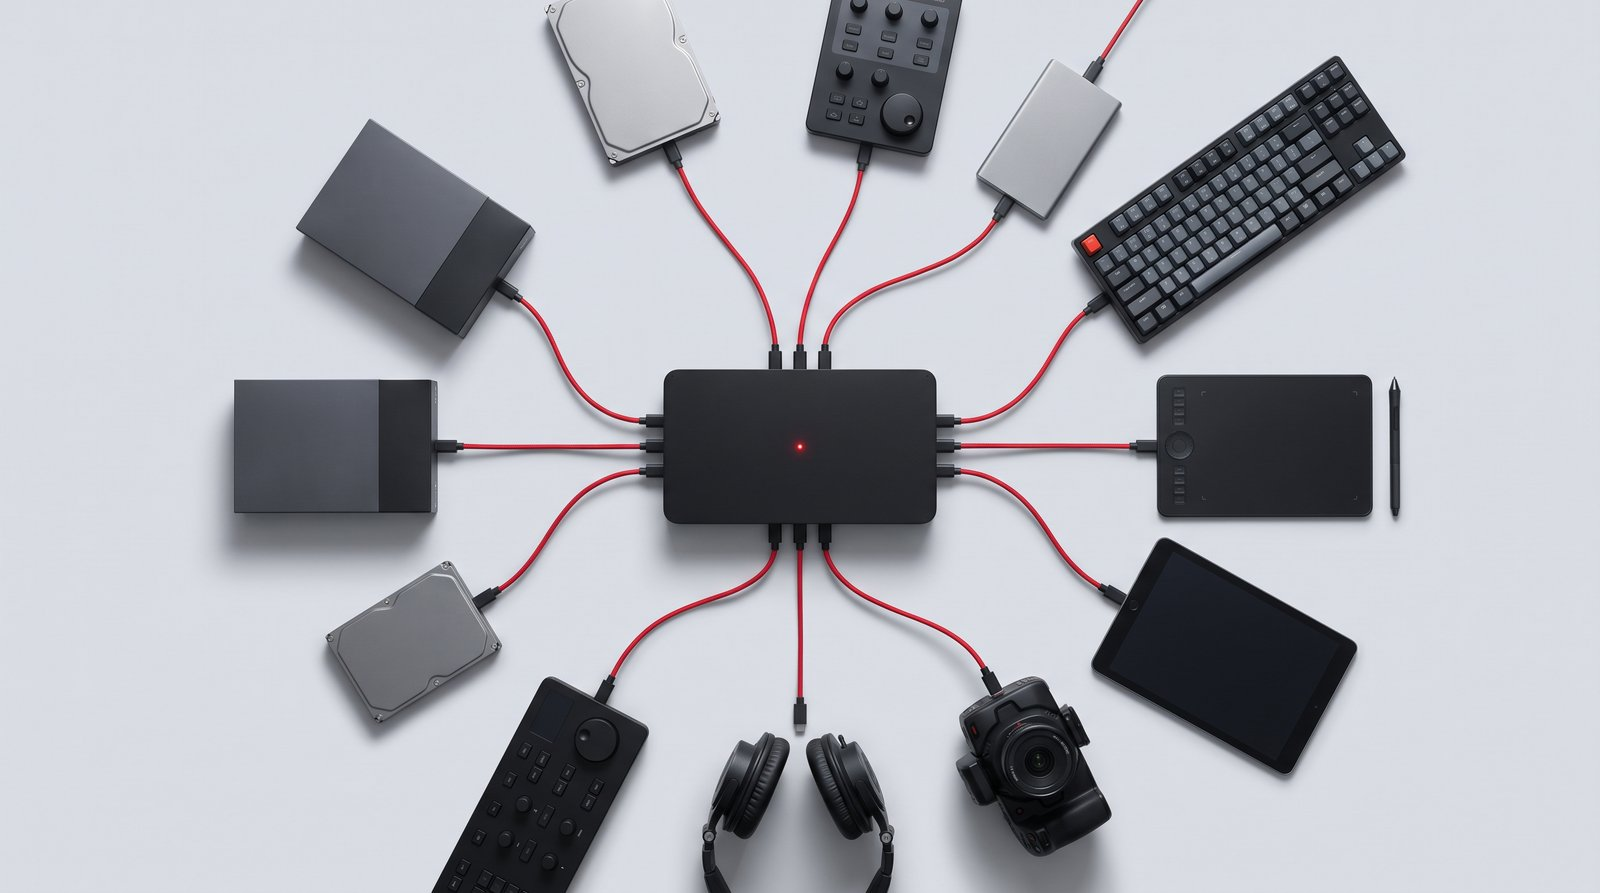
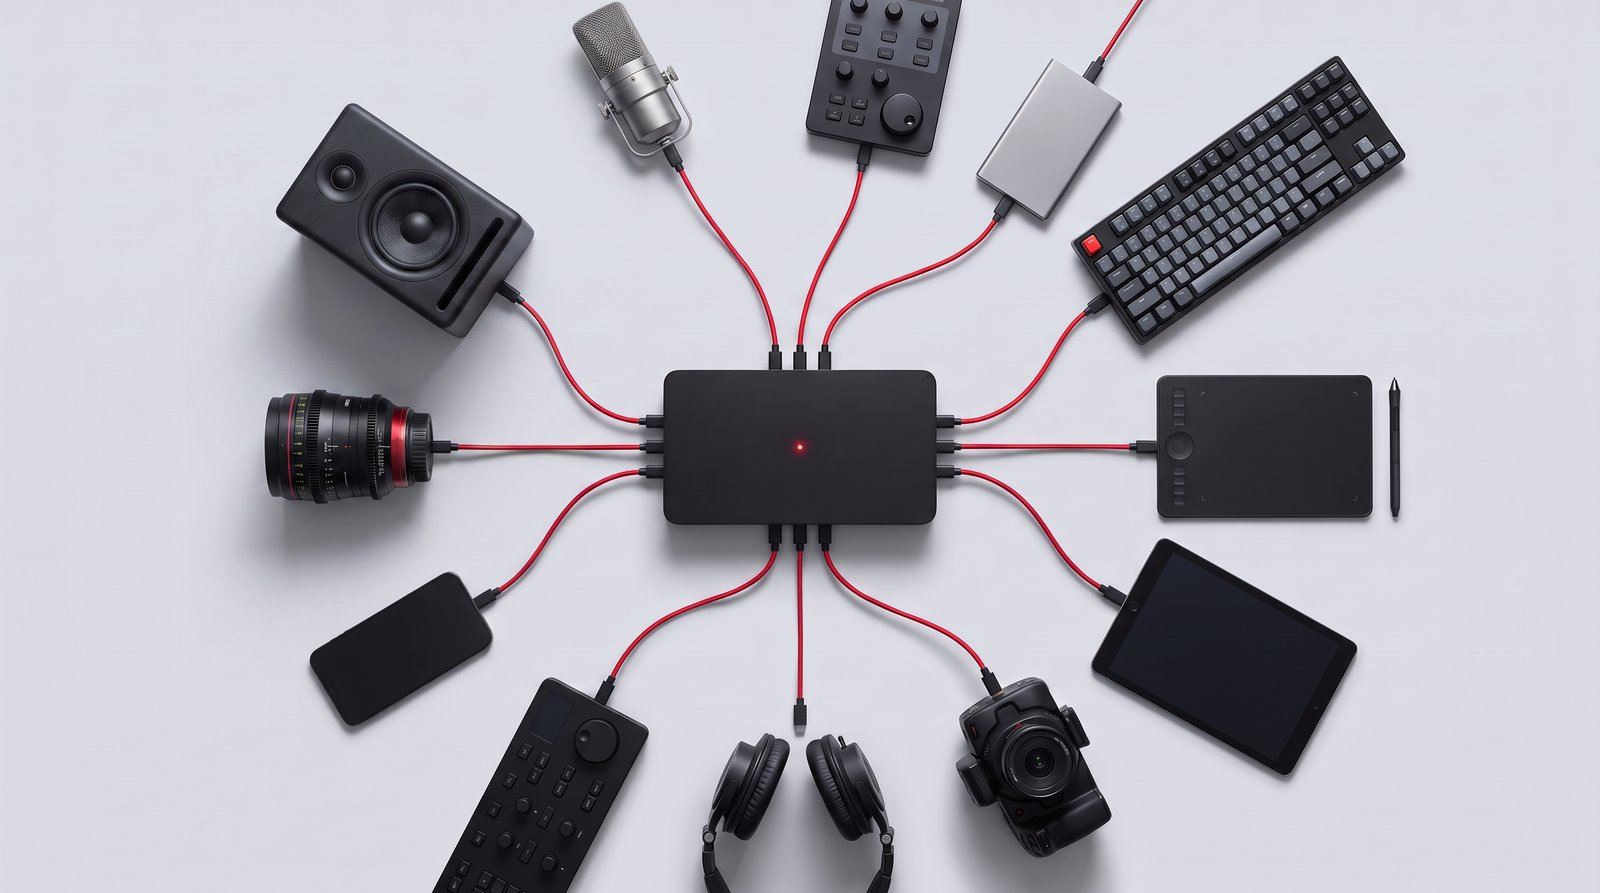
Fold System into homepage after hero, dedupe devices in Fig. 04, drop 'New Tech Consultant', remove separate system page

diff --git a/index.html b/index.html
@@ -3,8 +3,8 @@
 <head>
 <meta charset="UTF-8">
 <meta name="viewport" content="width=device-width, initial-scale=1.0">
-<title>Nicolas Lekai — AI Systems Architect · New Tech Consultant</title>
-<meta name="description" content="Nicolas Lekai — AI Systems Architect & New Tech Consultant. AI strategy, custom systems, production pipelines and cost management. I make AI work.">
+<title>Nicolas Lekai — AI Systems Architect</title>
+<meta name="description" content="Nicolas Lekai — AI Systems Architect. AI strategy, custom operating systems, production pipelines and cost management. I make AI work.">
 <link rel="stylesheet" href="style.css">
 </head>
 <body>
@@ -13,8 +13,8 @@
   <div class="wrap nav">
     <a class="wordmark" href="#top"><img class="mark" src="assets/logo-mark-red.png" alt="" width="512" height="384" />NICOLAS<em>_</em>LEKAI</a>
     <nav class="links" aria-label="Sections">
+      <a href="#system">The System</a>
       <a href="#services">Services</a>
-      <a href="system/">The System</a>
       <a href="#process">Process</a>
       <a href="#why">Why custom</a>
       <a href="#team">About</a>
@@ -26,13 +26,12 @@
 <main id="top">
   <div class="hero">
     <div class="wrap">
-      <span class="mono kicker">Nicolas Lekai — AI Systems Architect · New Tech Consultant</span>
+      <span class="mono kicker">Nicolas Lekai — AI Systems Architect</span>
       <h1>i make ai <span class="flip-slot" id="flip-hero">work.</span></h1>
       <div class="hero-foot">
         <p><strong>The hype cycle is someone else's business model.</strong> I help companies turn AI into ordinary, reliable capability — custom systems, production pipelines and honest numbers — built by someone who ships with these tools every day.</p>
         <div class="hero-meta mono">
           <div>AI Systems Architect</div>
-          <div>New Tech Consultant</div>
           <div>Munich · Melbourne</div>
           <div>Independent · Vendor-neutral</div>
         </div>
@@ -53,6 +52,45 @@
       <div class="pair"><span class="from">FEAR</span><span class="arrow">→</span><span class="to">FLUENCY</span></div>
     </div>
   </div>
+
+  <section id="system">
+    <div class="wrap">
+      <div class="sec-head reveal">
+        <h2>many tools. one system.</h2>
+        <span class="mono">Briefing 002 — the custom OS</span>
+      </div>
+      <div class="why-grid reveal">
+        <p class="lede">Your company already pays for a dozen excellent products — they just don't talk to each other. I wire them into one custom-built operating system that runs the way your company runs. <em>One interface, one login, your data stays yours.</em></p>
+        <div class="why-facts">
+          <div><strong>One place to work</strong>Briefs, status, files, approvals and comms in a single control centre shaped around your actual workflow.</div>
+          <div><strong>Agents do the boring part</strong>Reports write themselves, files land where they belong, the inbox gets triaged. People do the judgement calls.</div>
+          <div><strong>No platform prison</strong>Every underlying product stays swappable — when a better model or tool ships, it slots in.</div>
+        </div>
+      </div>
+      <figure class="plate process-plate reveal">
+        <img src="assets/system_plate.jpg" alt="Professional tools arranged in a ring, red cables running from each into a single black device at the center" width="1600" height="893" loading="lazy">
+        <figcaption><span><em>Fig. 04</em> — Many products, one system</span><span>Ref. NRM-2604</span></figcaption>
+      </figure>
+      <div class="flow reveal">
+        <div class="chips">
+          <div class="chip"><em>AI models</em>Claude · GPT · Gemini</div>
+          <div class="chip"><em>Image &amp; video</em>ComfyUI · gen pipelines</div>
+          <div class="chip"><em>Post-production</em>Resolve · edit · grade</div>
+          <div class="chip"><em>Voice &amp; audio</em>TTS · transcription</div>
+          <div class="chip"><em>Office</em>Mail · docs · sheets</div>
+          <div class="chip"><em>Comms</em>WhatsApp · Slack · phone</div>
+          <div class="chip"><em>Storage</em>Dropbox · Drive · archive</div>
+          <div class="chip"><em>Business</em>CRM · invoicing · calendar</div>
+        </div>
+        <div class="flow-arrow" aria-hidden="true"><span>→</span><span>→</span><span>→</span></div>
+        <div class="os-card">
+          <span class="mono">Custom build / v1.0</span>
+          <h3>your operating system</h3>
+          <p>One bespoke piece of software that knows your projects, your people and your data — and drives every tool on the left so your team doesn't have to.</p>
+        </div>
+      </div>
+    </div>
+  </section>
 
   <section id="services">
     <div class="wrap">
@@ -75,7 +113,7 @@
           <span class="idx">SRV / 02</span>
           <h3>custom systems &amp; control centres</h3>
           <ul>
-            <li>Bespoke operating systems — the software your company runs on, built for your company alone → <a href="system/">see the system</a></li>
+            <li>Bespoke operating systems — the software your company runs on, built for your company alone → <a href="#system">see the system</a></li>
             <li>Custom control centres — one place to run the operation from</li>
             <li>Agentic workflows for the boring work: admin, reporting, inbox, ops</li>
             <li>Internal tooling your team will actually open twice</li>
@@ -172,7 +210,7 @@
         <div class="member">
           <span class="mono">File / 01 — This side</span>
           <h3>Nicolas Lekai</h3>
-          <span class="role">AI Systems Architect · New Tech Consultant</span>
+          <span class="role">AI Systems Architect</span>
           <p>Builds custom operating systems, control centres and bespoke solutions — the software a company runs on, made for that company alone. A career in high-end film and post-production, now spent building AI systems and pipelines that ship real work.</p>
         </div>
         <div class="member">

diff --git a/style.css b/style.css
@@ -281,3 +281,29 @@
     .wordmark:hover { animation: none; }
     .pair .to { animation: none; }
   }
+
+/* the convergence diagram (system section) */
+.flow { display: grid; grid-template-columns: 1fr auto 1fr; gap: 28px; align-items: center; margin-top: 44px; }
+.chips { display: grid; grid-template-columns: repeat(2, 1fr); gap: 10px; }
+.chip {
+  border: 1px solid var(--line); background: var(--paper-2);
+  padding: 12px 14px;
+  font-family: var(--mono); font-size: 11px; letter-spacing: 0.14em; text-transform: uppercase;
+  color: var(--ink-soft);
+}
+.chip em { font-style: normal; color: var(--ink); display: block; font-size: 12px; margin-bottom: 3px; }
+.flow-arrow {
+  font-family: var(--mono); color: var(--red); font-size: 22px;
+  display: grid; gap: 18px; text-align: center;
+}
+.os-card {
+  border: 1px solid var(--red); background: var(--paper-2);
+  padding: 38px 32px; text-align: center;
+}
+.os-card .mono { color: var(--red); display: block; margin-bottom: 18px; }
+.os-card h3 { font-size: clamp(24px, 3vw, 34px); font-weight: 700; letter-spacing: -0.02em; text-transform: lowercase; }
+.os-card p { color: var(--ink-soft); font-size: 15px; margin-top: 12px; }
+@media (max-width: 860px) {
+  .flow { grid-template-columns: 1fr; }
+  .flow-arrow { grid-auto-flow: column; justify-content: center; transform: rotate(90deg); height: 40px; }
+}
